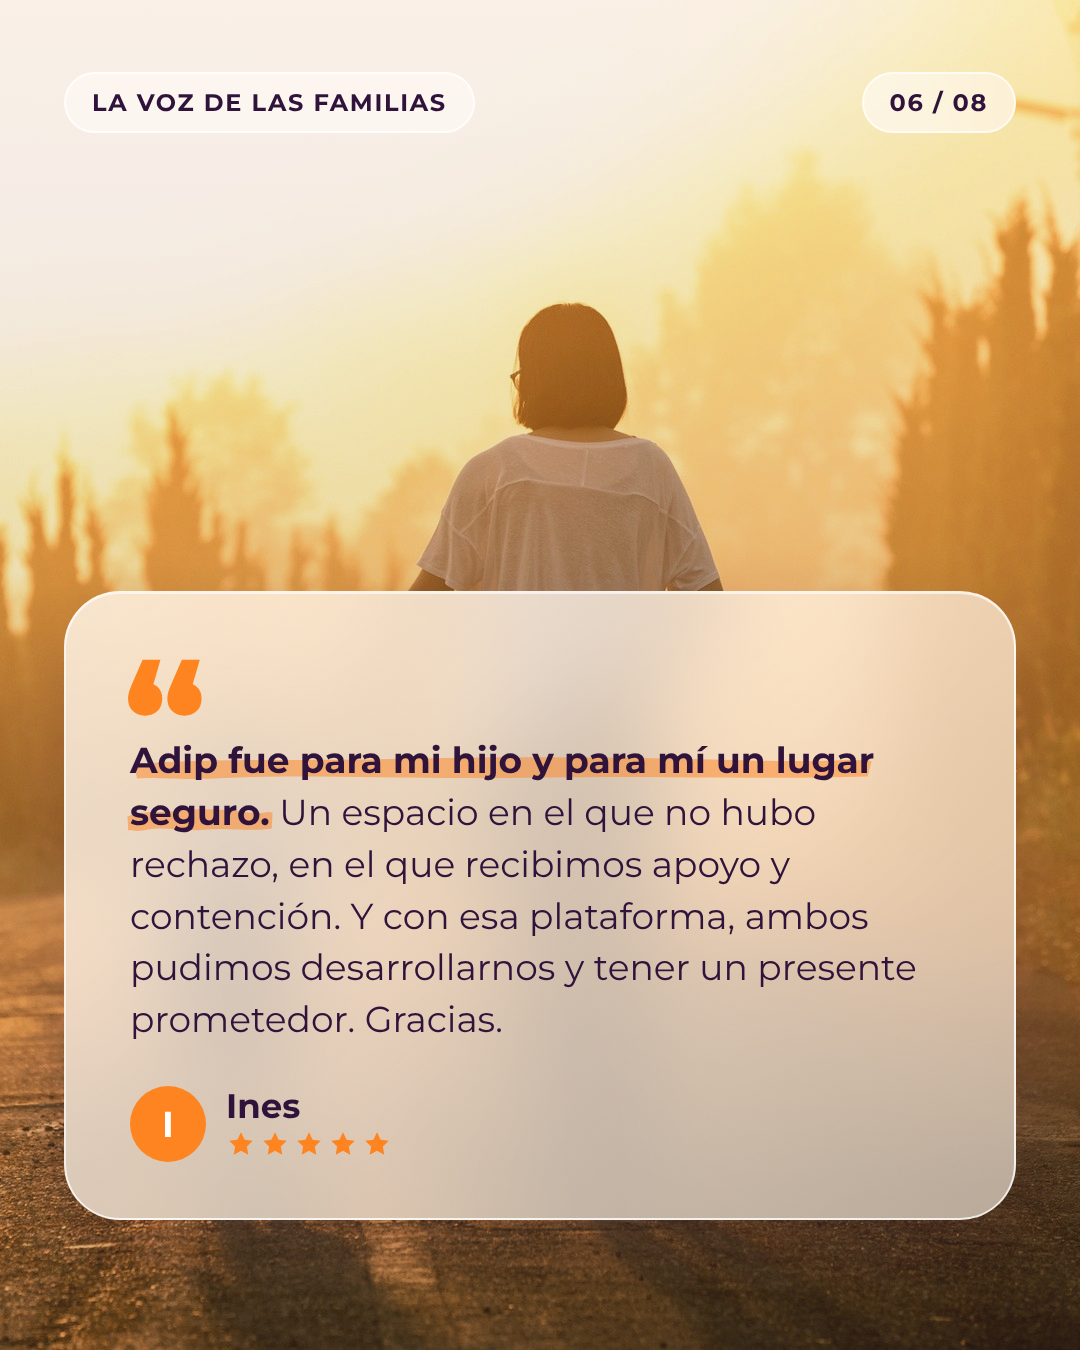
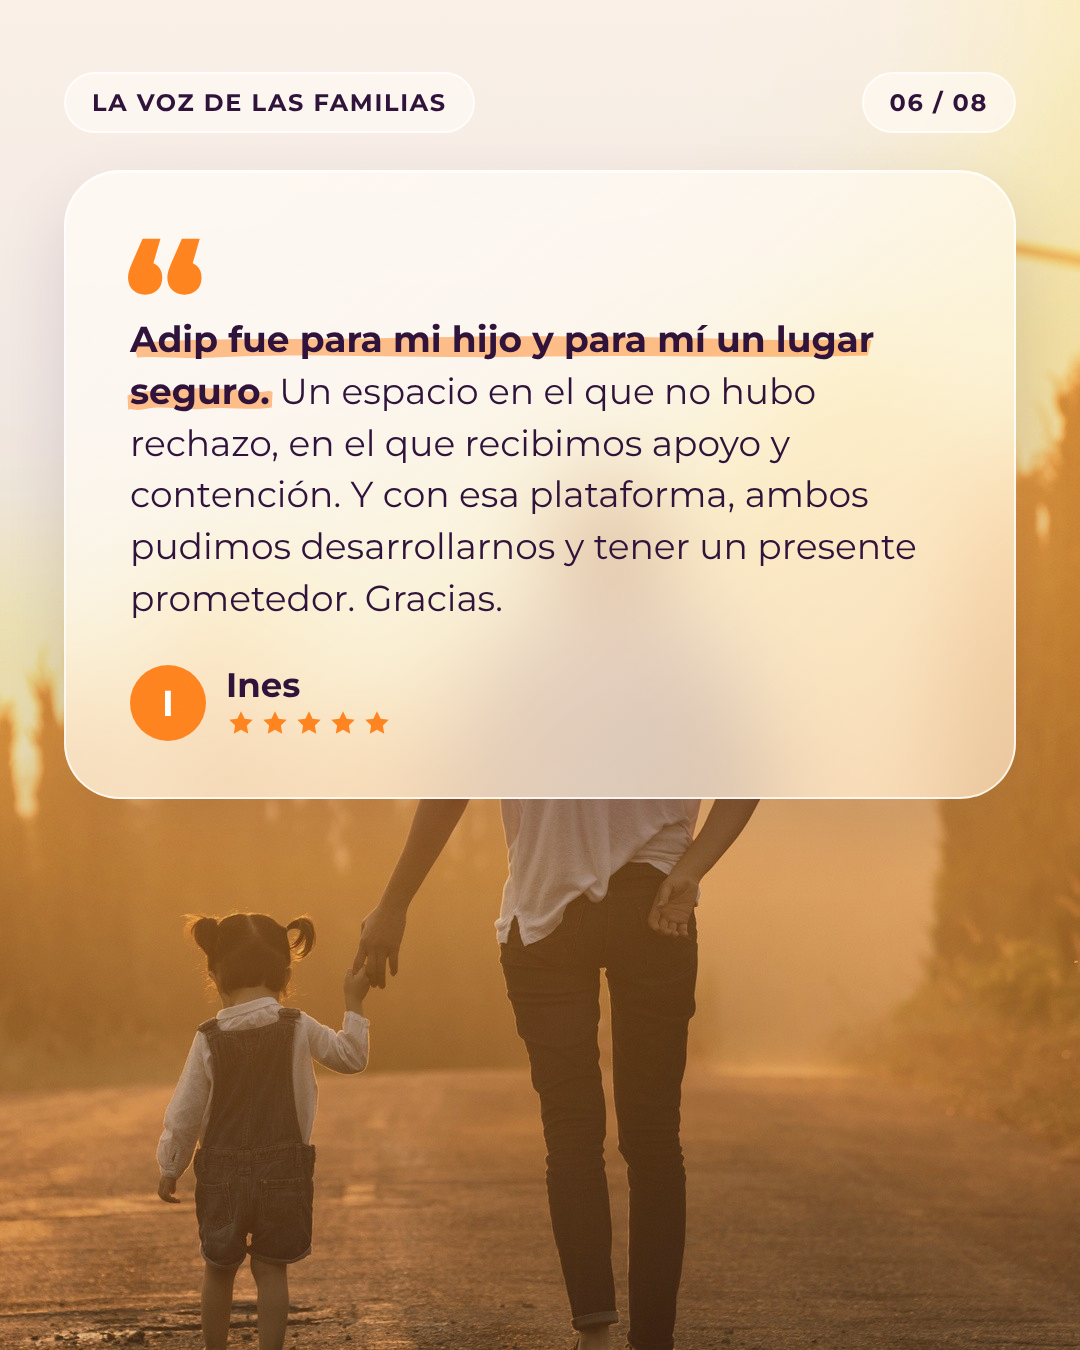
ADIP carousel: reframe slide 6
Claude-Session: https://claude.ai/code/session_01M2Lxgiueyi8rDFxgAsKuBZ

diff --git a/adip-carrusel-resenas/fuente/carrusel.html b/adip-carrusel-resenas/fuente/carrusel.html
@@ -202,7 +202,7 @@
 <section class="slide" id="p06">
   <div class="fondo"></div>
   <div class="top"><span class="pastilla">La voz de las familias</span><span class="pastilla">06 / 08</span></div>
-  <div class="zona abajo" style="bottom:130px;">
+  <div class="zona arriba" style="top:170px;">
     <div class="vidrio">
       <div class="abre">“</div>
       <div class="texto">
